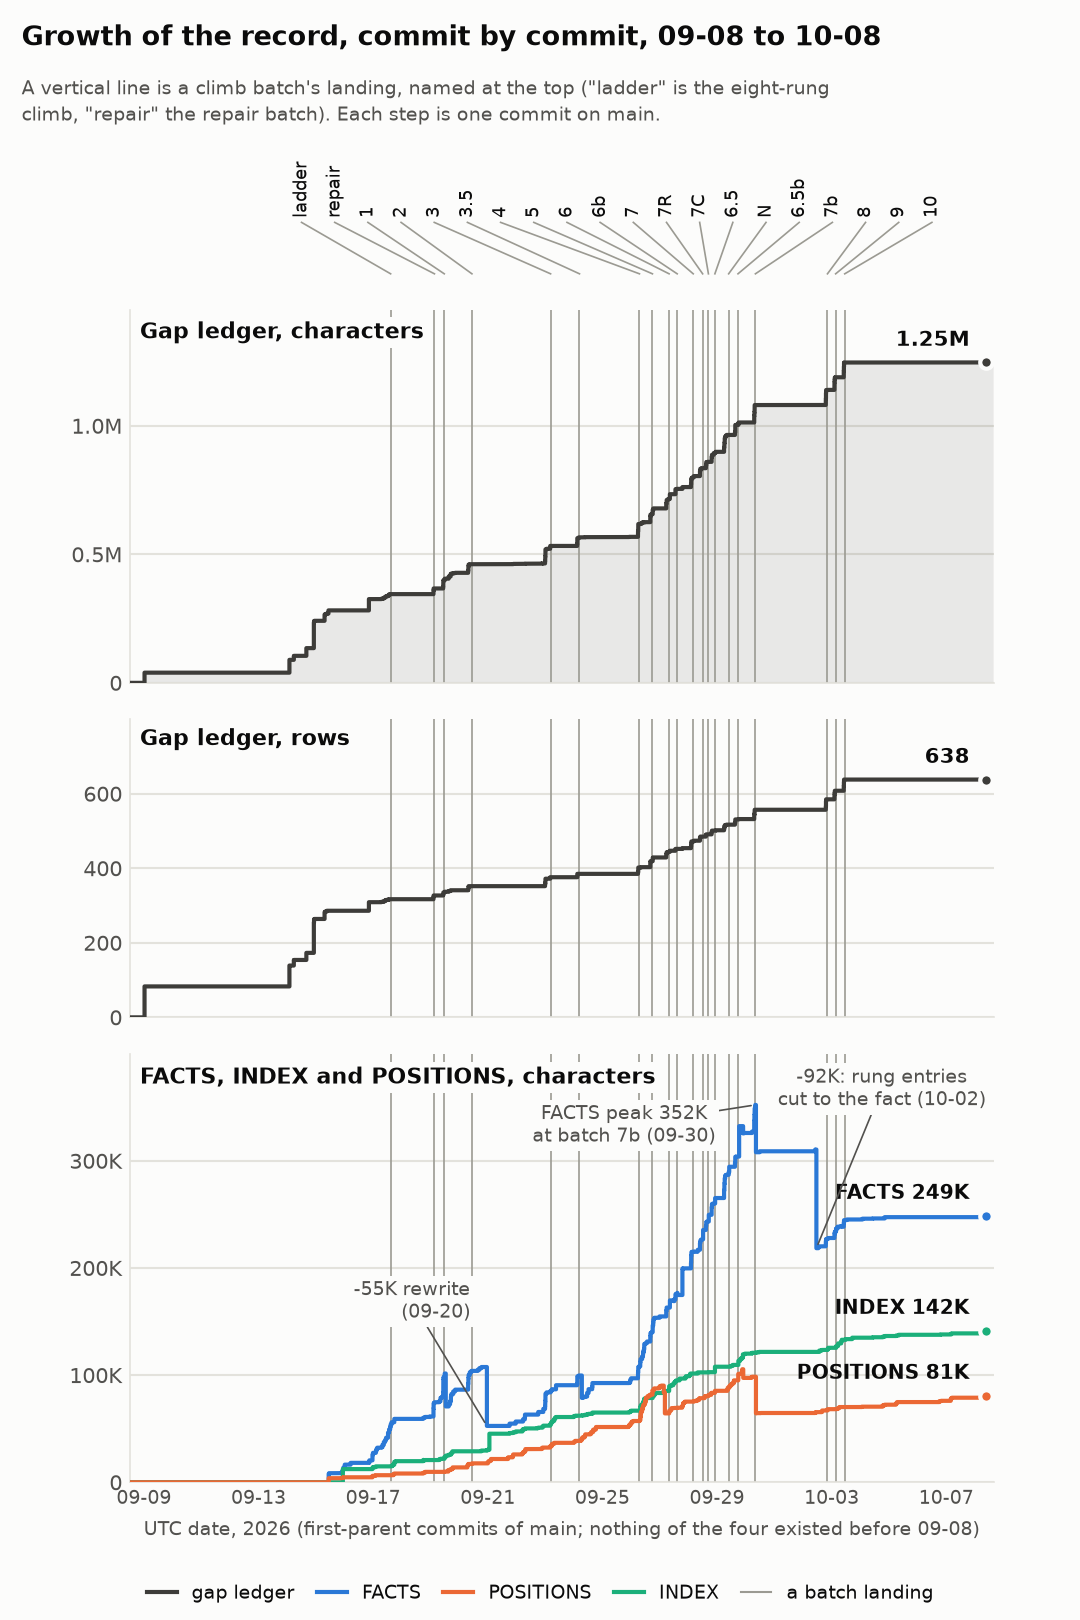
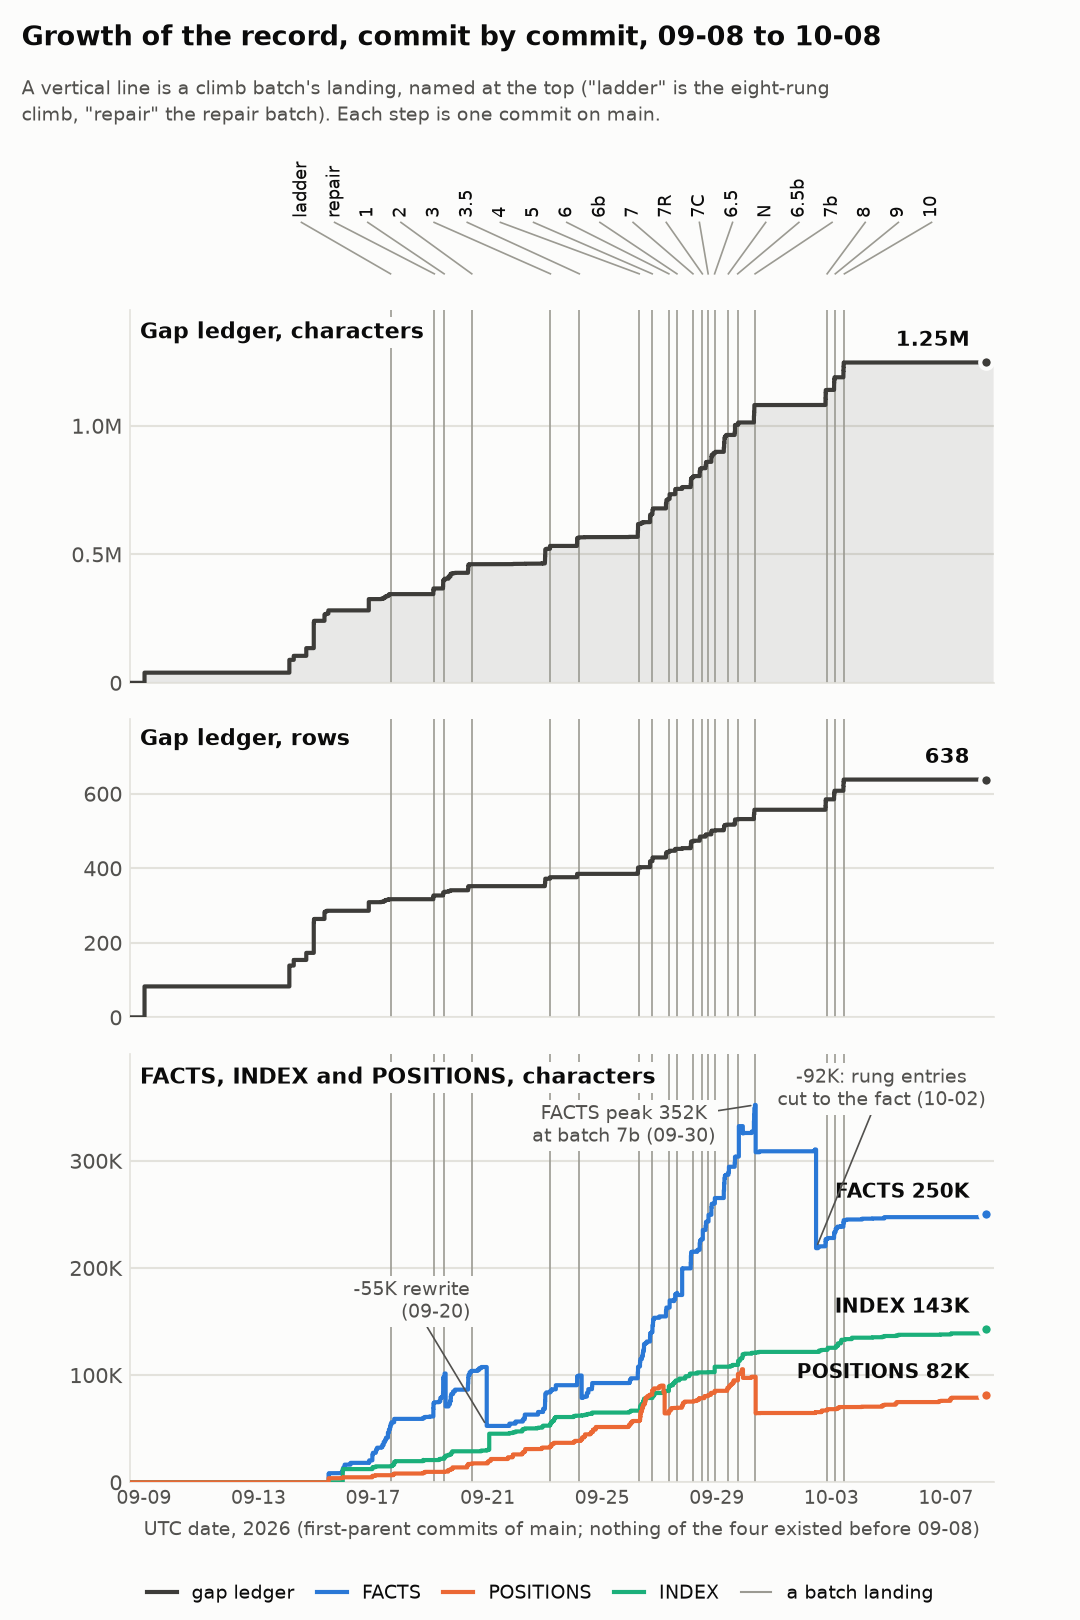
Record growth: measured to c9e6cfc85, one third-party name left out of the commit subjects, the carried boot-size script made location-independent
Claude-Session: https://claude.ai/code/session_01AmiXNpJxQ6TBwec4vJZHDB

diff --git a/explorations/coordinator/process-engineering/record-growth/measure.py b/explorations/coordinator/process-engineering/record-growth/measure.py
@@ -45,6 +45,11 @@ FILES = [('ledger', 'explorations/fortress-gap-ledger.md'),
 ROW = re.compile(r'^\| (\d+) \|', re.M)
 
 
+def clean(subject):
+    """A subject as written to the CSVs: one third-party name, which the curator wants unmentioned, left out."""
+    return re.sub(r'pluckyporcupine', '[omitted]', subject, flags=re.I)
+
+
 def git(*a, inp=None, text=True):
     return subprocess.run(('git',) + a, cwd=ROOT, capture_output=True, text=text, input=inp).stdout
 
@@ -156,7 +161,7 @@ def main():
     meta = []
     for ln in lines:
         H, h, ci, P, s = ln.split('|', 4)
-        meta.append(dict(full=H, h=h, utc=ci, parents=P.split(), subject=s))
+        meta.append(dict(full=H, h=h, utc=ci, parents=P.split(), subject=clean(s)))
     print('first-parent commits:', len(meta), meta[0]['utc'], '->', meta[-1]['utc'])
 
     # paths touched by each first-parent commit (a merge: against its first parent)
@@ -260,7 +265,7 @@ def main():
         old = info[psha]['text'] if psha else ''
         new = info[sha]['text'] if sha else ''
         nn, nl, top = entry_delta('ledger' if name == 'ledger' else 'x', old, new)
-        sub = git('log', '-1', '--format=%s', side).strip()
+        sub = clean(git('log', '-1', '--format=%s', side).strip())
         ut = git('log', '-1', '--format=%cI', side).strip()
         h = git('log', '-1', '--format=%h', side).strip()
         cf, bt = label(h, sub, ut, set(git('diff-tree', '--no-commit-id', '--name-only', '-r', '--root', side).split()))

diff --git a/explorations/coordinator/process-engineering/record-growth/boot-size-chart.py b/explorations/coordinator/process-engineering/record-growth/boot-size-chart.py
@@ -1,10 +1,11 @@
-import csv, datetime as dt
+import csv, datetime as dt, os
+HERE = os.path.dirname(os.path.abspath(__file__))   # run from anywhere: python3 <this file>
 import matplotlib
 matplotlib.use('Agg')
 import matplotlib.pyplot as plt
 import matplotlib.dates as md
 from matplotlib.lines import Line2D
-R=list(csv.DictReader(open('boot-size.csv')))
+R=list(csv.DictReader(open(os.path.join(HERE, 'boot-size.csv'))))
 def T(s): return dt.datetime.strptime(s,'%Y-%m-%dT%H:%M:%SZ')
 t=[T(r['compaction_utc']) for r in R]   # x = compaction that started the boot; the /context ran minutes later
 be=[float(r['boot_end_k']) for r in R]; ctx=[float(r['context_total_k']) for r in R]
@@ -52,5 +53,5 @@ h=[Line2D([],[],color=col['boot'],lw=3,marker='o',ms=8,label='boot end, K tokens
 fig.subplots_adjust(left=0.12,right=0.985,top=0.94,bottom=0.30)
 fig.text(0.5,0.235,'x: UTC time of the compaction that started each boot; axis broken between 09-21 and 09-27',ha='center',fontsize=9.5,color='#444')
 fig.legend(handles=h,loc='lower center',ncol=1,fontsize=10.5,frameon=False,bbox_to_anchor=(0.5,0.005))
-fig.savefig('boot-size.png',dpi=150)
+fig.savefig(os.path.join(HERE, 'boot-size.png'),dpi=150)
 print('ok')

diff --git a/explorations/coordinator/process-engineering/record-growth/README.md b/explorations/coordinator/process-engineering/record-growth/README.md
@@ -1,8 +1,8 @@
-<!-- How the gap ledger, FACTS, POSITIONS and INDEX grew commit by commit from 2026-08-19 to 2026-10-08 (main at bb54e2113): the scripts, the data as CSV, one chart with each climb batch's landing marked, and what the chart shows; the earlier measure of 2026-10-02 extended to today and the ledger added. -->
+<!-- How the gap ledger, FACTS, POSITIONS and INDEX grew commit by commit from 2026-08-19 to 2026-10-08 (main at c9e6cfc85): the scripts, the data as CSV, one chart with each climb batch's landing marked, and what the chart shows; the earlier measure of 2026-10-02 extended to today and the ledger added. -->
 
 # How the record grew, commit by commit
 
-Four files are measured at every commit of `main`, from the first commit under `explorations/` (`446836590`, 2026-08-19) to `bb54e2113` (2026-10-08):
+Four files are measured at every commit of `main`, from the first commit under `explorations/` (`446836590`, 2026-08-19) to `c9e6cfc85` (2026-10-08):
 
 - the gap ledger, `explorations/fortress-gap-ledger.md`: characters and rows;
 - `explorations/coordinator/FACTS.md`, `POSITIONS.md` and `INDEX.md`: characters.
@@ -15,9 +15,9 @@ A row of the ledger is a table line that starts `| N |` above the heading `## Re
 
 - The ledger went from 83 rows (39.6K characters, 09-09) to 638 rows (1.25M) by batch 10 on 10-03, and has not changed since. Its first 309 rows (326K) came before the first climb; the 20 landings, with their run windows, added 16 rows and 46K characters each on average.
 - From the ladder climb's start (09-17 06:01) to batch 10's landing (10-03 10:58), the batch run windows are 35% of the clock (135 of 389 hours) and hold 88% of the ledger's characters and 92% of its rows. They hold 22% of INDEX's growth and 26% of POSITIONS'.
-- FACTS grew to 352K at batch 7b (09-30), then lost 92K in one commit on 10-02 (the rung entries cut to the fact), after a 55K rewrite on 09-20 and 44K on 09-30. It is 249K now. POSITIONS peaked at 105K (09-29), lost 34K in the rewrite of 09-30, and is 81K now.
-- INDEX never lost more than 324 characters in a commit: 14K on 09-17, 142K now, a line for each note.
-- After 10-03 the ledger stands still, and the three others gained 4K (FACTS), 11K (POSITIONS) and 8K (INDEX): commits about process, skills and the record, none about a batch.
+- FACTS grew to 352K at batch 7b (09-30), then lost 92K in one commit on 10-02 (the rung entries cut to the fact), after a 55K rewrite on 09-20 and 44K on 09-30. It is 250K now. POSITIONS peaked at 105K (09-29), lost 34K in the rewrite of 09-30, and is 82K now.
+- INDEX never lost more than 324 characters in a commit: 14K on 09-17, 143K now, a line for each note.
+- After 10-03 the ledger stands still, and the three others gained 5K (FACTS), 11K (POSITIONS) and 9K (INDEX): commits about process, skills and the record, none about a batch.
 
 ## Files
 
@@ -36,8 +36,8 @@ Data (input, kept by hand):
 
 Data (output of `measure.py`):
 
-- `series.csv`: one row for each of the 1,611 first-parent commits: time, commit, the ledger's rows and characters, the characters and bytes of the four files, the batch whose landing it is.
-- `changes.csv`: one row for each commit and file that changed the file (779 rows). Size, change in characters and bytes, class, batch, how many entries it added or lengthened and the three largest. A merge keeps its net change; the four side-branch commits it brought in have kind `branch_commit`.
+- `series.csv`: one row for each of the 1,618 first-parent commits: time, commit, the ledger's rows and characters, the characters and bytes of the four files, the batch whose landing it is.
+- `changes.csv`: one row for each commit and file that changed the file (784 rows). Size, change in characters and bytes, class, batch, how many entries it added or lengthened and the three largest. A merge keeps its net change; the four side-branch commits it brought in have kind `branch_commit`.
 - `by-day.csv`: characters added and removed for each file, UTC day and class.
 - `top-additions.csv`: the ten largest single-commit additions of each file.
 - `per-batch.csv`: the four sizes at each landing, and the change since the previous landing.

diff --git a/explorations/coordinator/INDEX.md b/explorations/coordinator/INDEX.md
@@ -320,5 +320,5 @@
 - `explorations/reviews/skills-distillation-audit.md`: The distillation audit of the `fortress-repo` skill, 2026-10-08, an Opus reader at the curator's word: (A) 16 items of knowledge from the territory map and `repo-internals.md` that daily work needs and the skill's parts lack, each with its part and source; (B) the pre-training quiz graded claim by claim (56 correct, 7 wrong, 3 outdated, missing items), with corrections and sources; (C) the four pointers without a trigger, each with a trigger and a narrow read or the knowledge moved in; (D) a draft "Fortress as a language" section correcting pre-training's assumptions, with two placements priced.
 - `explorations/coordinator/process-engineering/gap-ledger-archaeology.md`: How the 638 rows of the gap ledger were written and read (eras, instructions, 3,617 reads, what went wrong), how consistent they are (status, class, length, closed-row marks), how many repeat each other (nine in seven groups, 59 sibling groups), and a proposed form with a row template, a consolidation that keeps every row number, a tool and the skill's text, with eight decisions D1 to D8 for the curator; 2026-10-08, a Sonnet archaeology at his word.
 - `explorations/coordinator/process-engineering/context-study.md`: How climb batch 10's four rung workers built their context before their first fix edit and what they wrote back, 2026-10-08, a Sonnet scout at the curator's word: what they read by source (the briefing 25%, primary text 48%), rediscovery (15 of 43 sampled facts wholly on record, 1.1% of tokens read; 12% with partly held ones), what they re-learn most (how to run the stages and the harness), the record hardly read after the briefing, what never reached the record, and a librarian pass sized against batch 10 (0.7M to 0.9M a batch; paying through refusal causes turned into rules); four questions for him.
-- `explorations/coordinator/process-engineering/record-growth/README.md`: How the gap ledger (rows and characters), FACTS, POSITIONS and INDEX grew commit by commit from 2026-08-19 to 2026-10-08, with each of the 20 batches' landing marked, 2026-10-08: the scripts (`measure.py`, `classify.py`, `chart.py`, runnable from the repository root), the data as CSV (1,611 first-parent commits, 779 changes, by day, by batch), the chart `record-growth.png` and what it shows (the ledger from 83 to 638 rows, 88% of its characters inside the batch run windows since the first climb, FACTS' peak of 352K and its cuts of 55K, 44K and 92K), and the earlier boot-size chart carried over.
+- `explorations/coordinator/process-engineering/record-growth/README.md`: How the gap ledger (rows and characters), FACTS, POSITIONS and INDEX grew commit by commit from 2026-08-19 to 2026-10-08, with each of the 20 batches' landing marked, 2026-10-08: the scripts (`measure.py`, `classify.py`, `chart.py`, runnable from the repository root), the data as CSV (1,618 first-parent commits, 784 changes, by day, by batch), the chart `record-growth.png` and what it shows (the ledger from 83 to 638 rows, 88% of its characters inside the batch run windows since the first climb, FACTS' peak of 352K and its cuts of 55K, 44K and 92K), and the earlier boot-size chart carried over.
 - `explorations/coordinator/process-engineering/ledger-check.md`: Whether the gap ledger holds every finding the batch records and rung reports say went to it, 2026-10-08, four read-only Sonnet checkers over the ladder climb, the repair batch and climb batches 1 to 10: about 490 rows match; three mismatches (row 321's missing sentence, rung P's promised row never opened, seven rows split on unescaped pipes); the kinds of finding that reach no row by their source's choice, each with its source.
